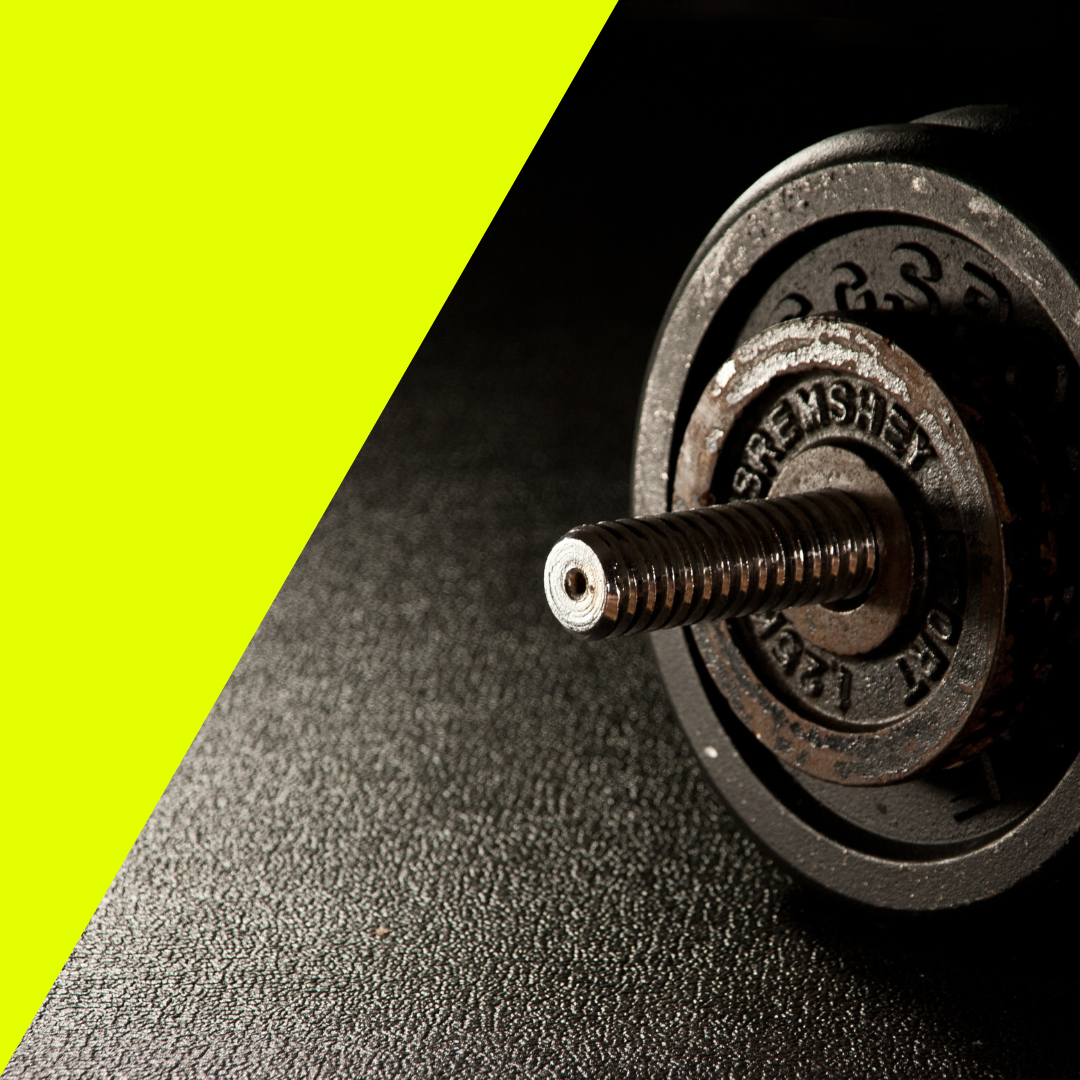
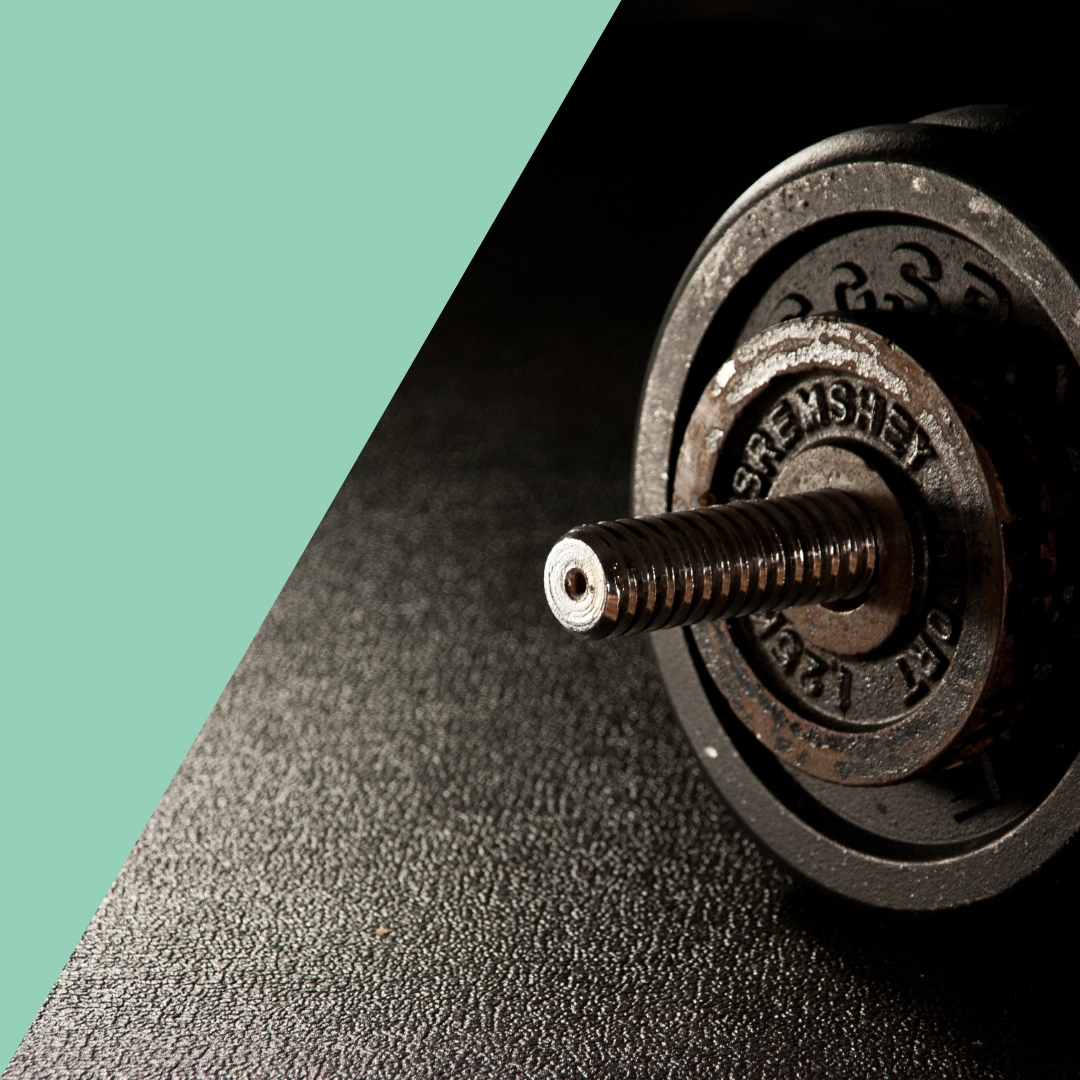
alterando layout das paginas e fotos

Changed region(s): [[0.0, 0.0, 0.5806, 1.0]]

diff --git a/src/components/Home.js b/src/components/Home.js
@@ -1,7 +1,7 @@
 import { Box, Button, Grid, Paper, ThemeProvider, Typography, createTheme } from "@mui/material";
 import React from "react";
 import styled from "@emotion/styled";
-import homeImage from '../images/home.png';
+import homeImage from '../images/yourLogo.png';
 import treinoCasa from '../images/treinoCasa.png';
 import treinoAcademia from '../images/treinoAcademia.png';
 import { Link } from "react-router-dom";
@@ -22,6 +22,31 @@ const LogoutButton = styled(Button)`
   right: 10px;
 `;
 
+const containerStyle = {
+    background: '#95d0b8',
+    backgroundRepeat: 'no-repeat',
+    backgroundSize: 'cover',
+    backgroundPosition: 'center',
+    minHeight: '100vh',
+    color: '#fff',
+    padding: '20px',
+};
+
+const buttonStyle = {
+    width: '100%',
+    backgroundColor: '#FF5722', // Cor padrão
+    color: '#fff',
+    fontWeight: 'bold',
+    transition: 'background-color 0.3s ease', // Adicione uma transição suave
+    '&:hover': {
+        backgroundColor: '#D84315', // Cor ao passar o mouse
+    },
+};
+
+const linkStyle = {
+    textDecoration: 'none',
+    color: '#fff',
+};
 export default function Home({ setIsLoggedIn }) {
 
     const handleLogout = () => {
@@ -32,117 +57,82 @@ export default function Home({ setIsLoggedIn }) {
     return (
         <ThemeProvider theme={defaultTheme}>
             <Grid container component="main" sx={{ height: '100vh' }}>
-                <LogoutButton variant="outlined" onClick={handleLogout}>
+                <LogoutButton variant="outlined" onClick={handleLogout} color="error">
                     Sair
                 </LogoutButton>
-                <Grid item xs={12} sm={6} md={5} component={Paper} elevation={6} square sx={{ backgroundColor: '#e3ff00' }}>
+                <Grid item xs={12} sm={6} md={5} component={Paper} elevation={6} square>
                     <Box
                         sx={{
                             my: 8,
-                            mx: 4,
                             display: 'flex',
                             flexDirection: 'column',
                             alignItems: 'center',
                         }}
                     >
-                        <Typography component="h1" variant="h2" fontFamily={'sans-serif'} sx={{ fontWeight: 'bold' }}>
-                            AppShape
-                        </Typography>
                         <Grid
                             container
                             direction="column"
                             alignItems="center"
                             justifyContent="center"
+                            textAlign="center"
                             sx={{
                                 minHeight: '50vh',
-                            }}>
+                            }}
+                        >
                             <Box
                                 component='img'
                                 src={homeImage}
+                                alt="Your Logo"
                                 sx={{
-                                    width: '50%',
-                                }} />
+                                    objectFit: 'contain', // Use 'contain' or 'cover' as needed
+                                    maxHeight: '100%',
+                                    maxWidth: '100%',
+                                }}
+                            />
                         </Grid>
                     </Box>
                 </Grid>
-                <Grid
-                    container
+                <Grid container
                     item
                     xs={false}
                     sm={6}
                     md={7}
                     alignItems="center"
-                    justifyContent="center"
-                    style={{
-                        backgroundRepeat: 'no-repeat',
-                        backgroundColor: '#e3ff00',
-                        backgroundSize: 'cover',
-                        backgroundPosition: 'center',
-                    }}
-                >
+                    justifyContent="center" style={containerStyle}>
                     <Box sx={{ flexGrow: 1 }}>
-                        <Grid
-                            alignItems="center"
-                            justifyContent="center"
-                            container
-                            spacing={2}
-                        >
-                            <Grid item xs={6}>
-                                <Item>
-                                    <Link to={'/imc'}>
-                                        <Button sx={{ width: '100%' }} variant="contained">
+                        <Grid alignItems="center" justifyContent="center" container spacing={2}>
+                            <Grid item xs={12} sm={6}>
+                                <Box textAlign="center">
+                                    <Link to="/imc" style={linkStyle}>
+                                        <Button variant="contained" sx={buttonStyle}>
                                             Calcular IMC
-                                        </Button >
+                                        </Button>
                                     </Link>
-                                </Item>
+                                </Box>
                             </Grid>
                         </Grid>
-                        <Grid
-                            mt={2}
-                            alignItems="center"
-                            justifyContent="center"
-                            container
-                            spacing={1}
-                            paddingX={8}
-                        >
+                        <Grid mt={2} container spacing={1} paddingX={8}>
                             <Grid item xs={12}>
-                                <Item>
-                                    <Typography component="h5" variant="h5" fontFamily={'sans-serif'} sx={{ fontWeight: 'bold' }}>
-                                        Selecione o tipo de treino
+                                <Typography component="h5" variant="h5" fontFamily="sans-serif" sx={{ fontWeight: 'bold' }}>
+                                    Qual será o treino de hoje?
+                                </Typography>
+                            </Grid>
+                            <Grid item xs={6}>
+                                <Link to="/workout/home" style={linkStyle}>
+                                    <Typography component="h5" variant="h5" fontFamily="sans-serif" sx={{ fontWeight: 'bold' }}>
+                                        Treino em casa
                                     </Typography>
-                                </Item>
+                                    <Box component="img" src={treinoCasa} sx={{ width: '50%' }} alt="Treino em casa" />
+                                </Link>
                             </Grid>
                             <Grid item xs={6}>
-                                <Item>
-                                    <Link style={{ textDecoration: 'none' }} to={'/workout/home'}>
-                                        <Typography component="h5" variant="h5" fontFamily={'sans-serif'} sx={{ fontWeight: 'bold' }}>
-                                            Treino em casa
-                                        </Typography>
-                                        <Box
-                                            component='img'
-                                            src={treinoCasa}
-                                            sx={{
-                                                width: '50%',
-                                            }} />
-                                    </Link>
-                                </Item>
+                                <Link to="/workout/gym" style={linkStyle}>
+                                    <Typography component="h5" variant="h5" fontFamily="sans-serif" sx={{ fontWeight: 'bold' }}>
+                                        Treino na academia
+                                    </Typography>
+                                    <Box component="img" src={treinoAcademia} sx={{ width: '50%' }} alt="Treino na academia" />
+                                </Link>
                             </Grid>
-                            <Grid item xs={6}>
-                                <Item>
-                                    <Link style={{ textDecoration: 'none' }} to={'/workout/gym'}>
-                                        <Typography component="h5" variant="h5" fontFamily={'sans-serif'} sx={{ fontWeight: 'bold' }}>
-                                            Treino na academia
-                                        </Typography>
-                                        <Box
-                                            component='img'
-                                            src={treinoAcademia}
-                                            sx={{
-                                                width: '50%',
-                                            }} />
-                                    </Link>
-                                </Item>
-                            </Grid>
-
                         </Grid>
                     </Box>
                 </Grid>

diff --git a/src/components/Login.js b/src/components/Login.js
@@ -1,5 +1,4 @@
-import * as React from 'react';
-import { useState } from 'react'; // Importe o useState
+import React, { useState } from 'react';
 import Button from '@mui/material/Button';
 import CssBaseline from '@mui/material/CssBaseline';
 import TextField from '@mui/material/TextField';
@@ -8,14 +7,22 @@ import Box from '@mui/material/Box';
 import Grid from '@mui/material/Grid';
 import Typography from '@mui/material/Typography';
 import { createTheme, ThemeProvider } from '@mui/material/styles';
-import bkImage from '../images/peso.png';
 import { Link, useNavigate } from 'react-router-dom';
 
-const defaultTheme = createTheme();
+import bkImage from '../images/peso.png';
+import yourLogo from '../images/yourLogo.png'; // Substitua com o caminho da sua imagem de logotipo
 
-export default function Login({ setIsLoggedIn }) {
+const theme = createTheme({
+  palette: {
+    primary: {
+      main: '#007bff', // Altere a cor primária conforme necessário
+    },
+  },
+});
+
+const Login = ({ setIsLoggedIn }) => {
   const navigate = useNavigate();
-  const [error, setError] = useState(null); // Estado para controlar erros
+  const [error, setError] = useState(null);
 
   const handleSubmit = async (event) => {
     event.preventDefault();
@@ -34,7 +41,7 @@ export default function Login({ setIsLoggedIn }) {
           'Content-Type': 'application/json',
         },
         body: JSON.stringify({
-          email: email,
+          email,
           senha: password,
         }),
       });
@@ -54,10 +61,10 @@ export default function Login({ setIsLoggedIn }) {
   };
 
   return (
-    <ThemeProvider theme={defaultTheme}>
+    <ThemeProvider theme={theme}>
       <Grid container component="main" sx={{ height: '100vh' }}>
         <CssBaseline />
-        <Grid item xs={12} sm={8} md={5} component={Paper} elevation={6} square sx={{ backgroundColor: '#e3ff00' }}>
+        <Grid item xs={12} sm={8} md={5} component={Paper} elevation={6} square>
           <Box
             sx={{
               my: 8,
@@ -67,10 +74,8 @@ export default function Login({ setIsLoggedIn }) {
               alignItems: 'center',
             }}
           >
-            <Typography component="h1" variant="h2" fontFamily={'sans-serif'} sx={{ fontWeight: 'bold' }}>
-              AppShape
-            </Typography>
-            <Box component="form" noValidate onSubmit={handleSubmit} sx={{ mt: 3 }} maxWidth={'80%'}>
+            <img src={yourLogo} alt="Logo" style={{ width: '40%' }} />
+            <Box component="form" noValidate onSubmit={handleSubmit} sx={{ mt: 3 }}>
               <TextField
                 margin="normal"
                 required
@@ -81,7 +86,6 @@ export default function Login({ setIsLoggedIn }) {
                 autoComplete="email"
                 autoFocus
                 inputProps={{ 'data-testid': 'email' }}
-                sx={{ backgroundColor: 'white' }}
               />
               <TextField
                 margin="normal"
@@ -93,21 +97,23 @@ export default function Login({ setIsLoggedIn }) {
                 id="password"
                 inputProps={{ 'data-testid': 'password' }}
                 autoComplete="current-password"
-                sx={{ backgroundColor: 'white' }}
               />
-              <Link href="#" variant="body2">
-                Esqueceu a senha?
+              <Link href="#" variant="body2" sx={{ mt: 2 }}>
+                Esqueceu sua senha?
               </Link>
-              <Grid item sx={{ mt: 1 }}>
-                <Link to={'/signup'} variant="body2">
-                  {"Não tem uma conta? Crie uma"}
-                </Link>
-              </Grid>
+              <div>&nbsp;</div>
+              <Link to={'/signup'} variant="body2" sx={{ mt: 2 }}>
+                Não tem uma conta? Crie uma
+              </Link>
               <Button type="submit" fullWidth variant="contained" sx={{ mt: 3, mb: 2 }}>
                 Entrar
               </Button>
             </Box>
-            {error && <Typography color="error">{error}</Typography>}
+            {error && (
+              <Typography color="error" sx={{ mt: 2 }}>
+                {error}
+              </Typography>
+            )}
           </Box>
         </Grid>
         <Grid
@@ -127,4 +133,6 @@ export default function Login({ setIsLoggedIn }) {
       </Grid>
     </ThemeProvider>
   );
-}
+};
+
+export default Login;

diff --git a/src/components/Signup.js b/src/components/Signup.js
@@ -10,6 +10,7 @@ import Typography from '@mui/material/Typography';
 import { createTheme, ThemeProvider } from '@mui/material/styles';
 import bkImage from '../images/peso.png';
 import { Link } from 'react-router-dom';
+import yourLogo from '../images/yourLogo.png'; // Substitua com o caminho da sua imagem de logotipo
 
 const defaultTheme = createTheme();
 
@@ -65,7 +66,7 @@ export default function Signup({ setIsLoggedIn }) {
     <ThemeProvider theme={defaultTheme}>
       <Grid container component="main" sx={{ height: '100vh' }}>
         <CssBaseline />
-        <Grid item xs={12} sm={8} md={5} component={Paper} elevation={6} square sx={{ backgroundColor: '#e3ff00' }}>
+        <Grid item xs={12} sm={8} md={5} component={Paper} elevation={6} square>
           <Box
             sx={{
               my: 8,
@@ -75,9 +76,7 @@ export default function Signup({ setIsLoggedIn }) {
               alignItems: 'center',
             }}
           >
-            <Typography component="h1" variant="h2" fontFamily={'sans-serif'} sx={{ fontWeight: 'bold' }}>
-              AppShape
-            </Typography>
+            <img src={yourLogo} alt="Logo" style={{ width: '40%' }} />
             <Box component="form" noValidate onSubmit={handleSubmit} sx={{ mt: 3 }} maxWidth={'80%'}>
               <TextField
                 margin="normal"
